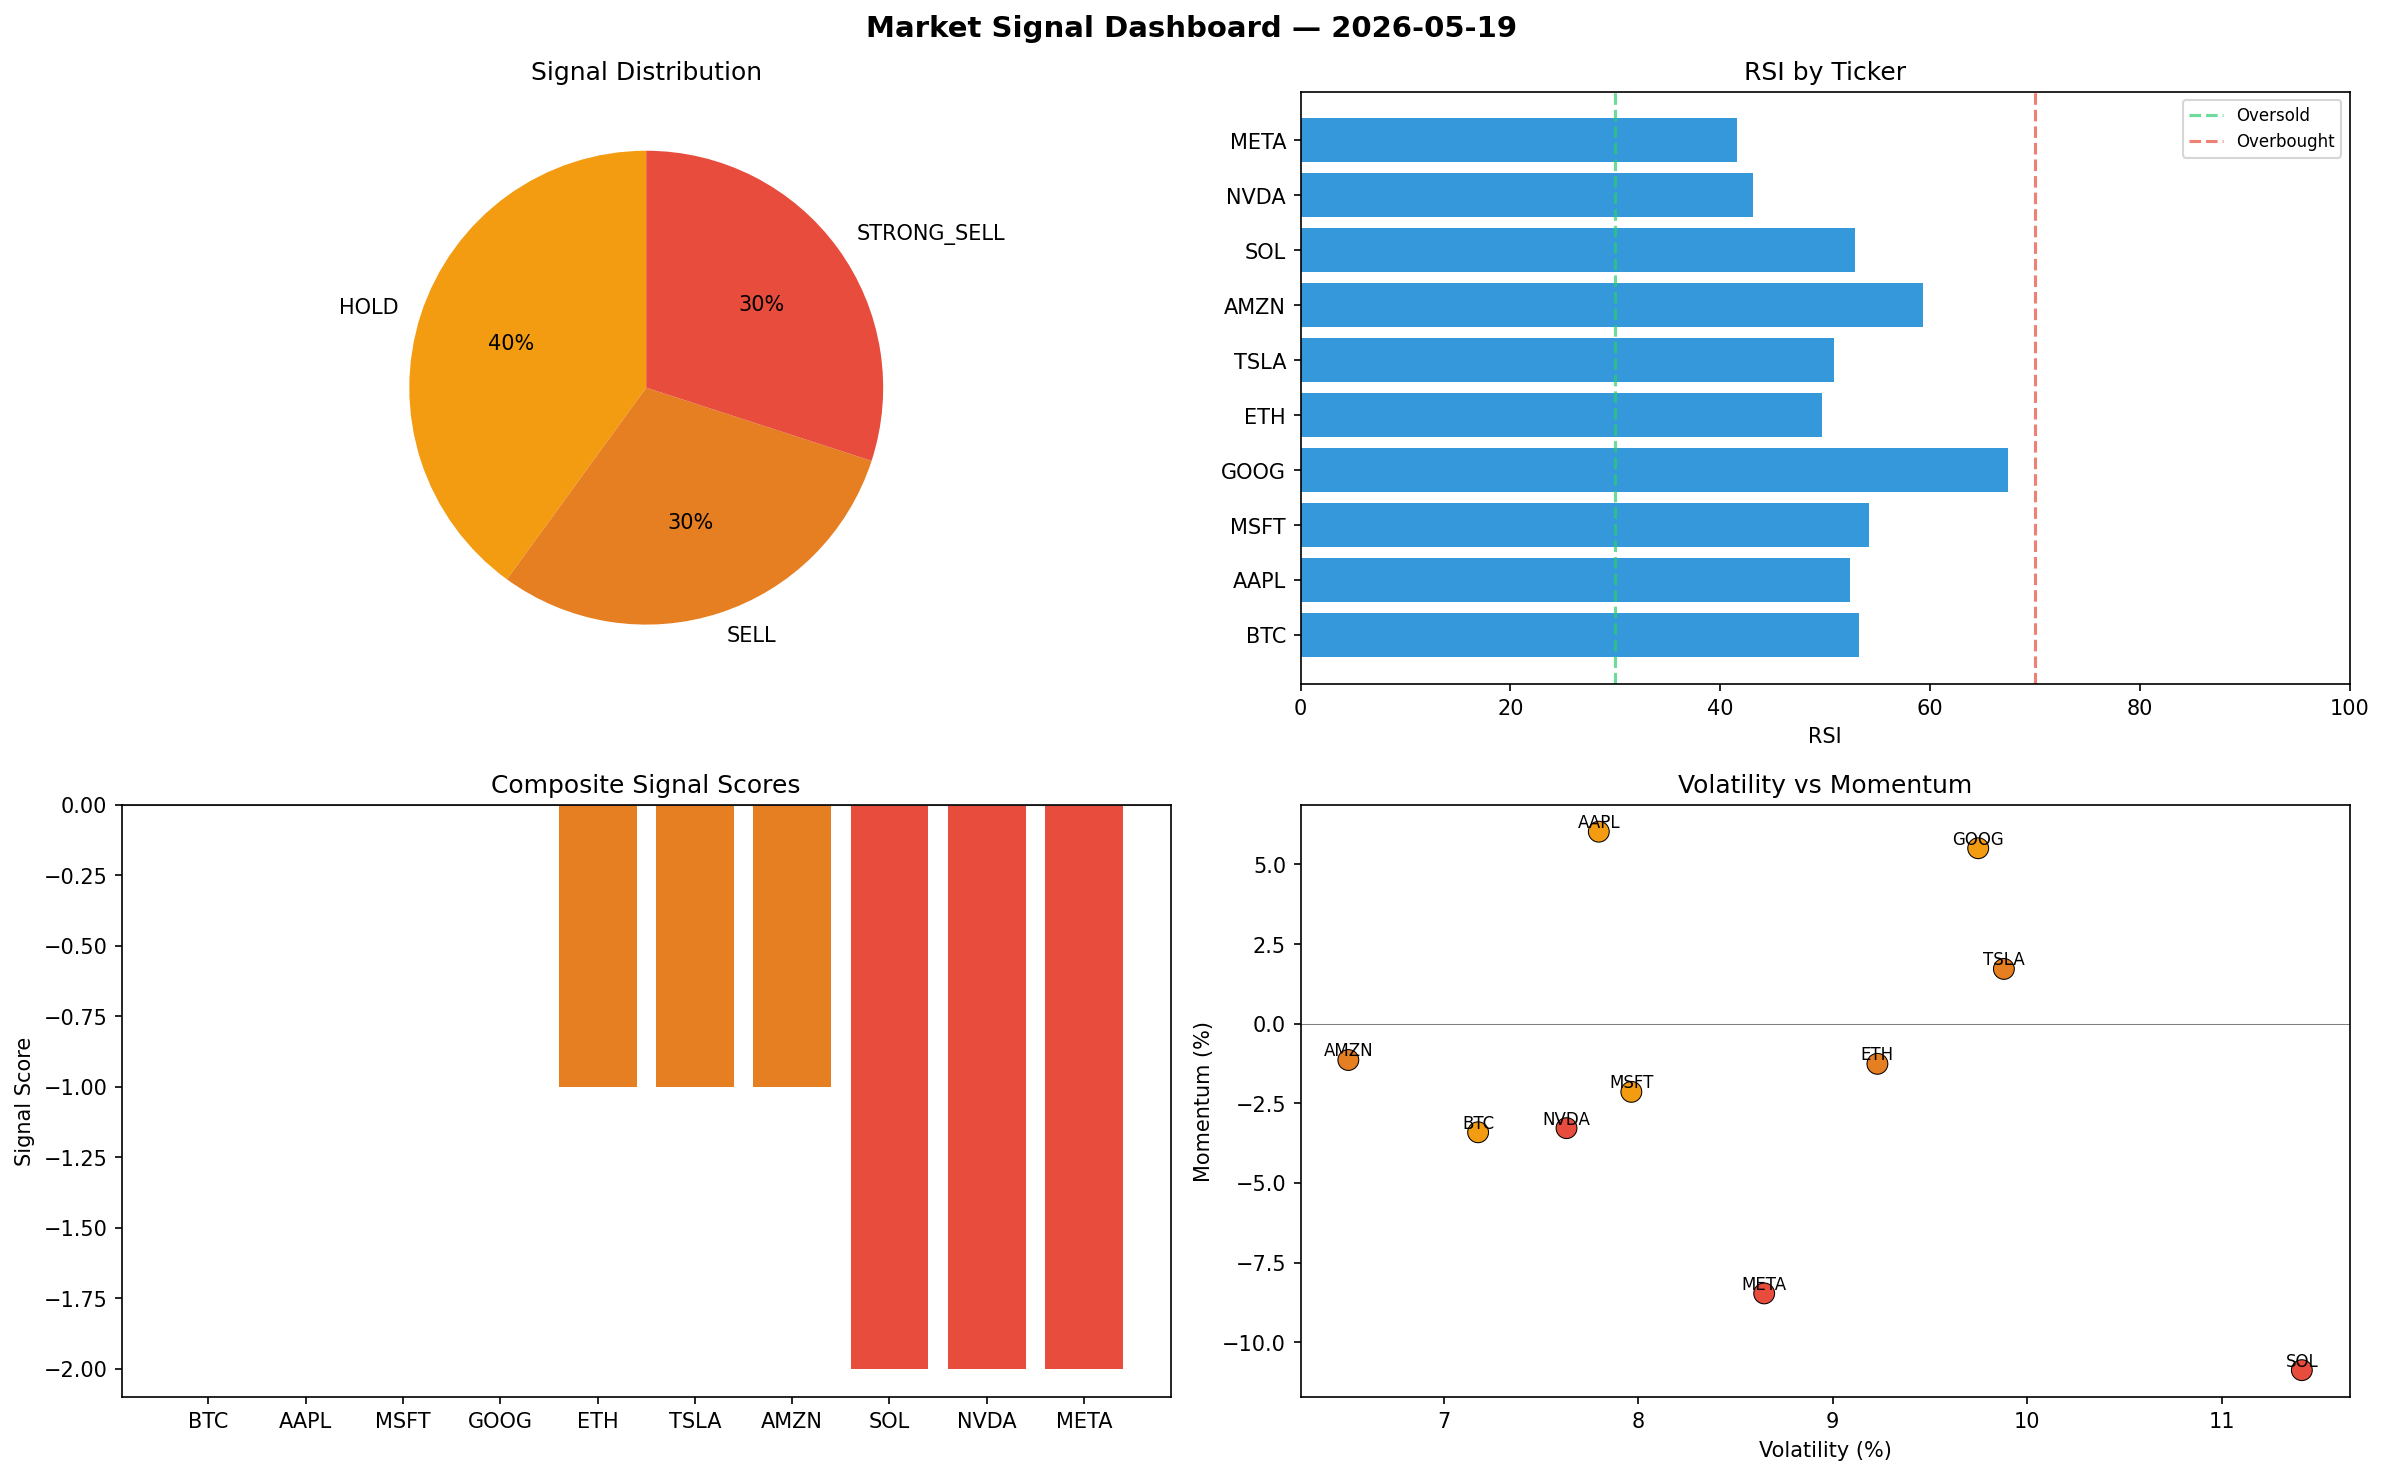
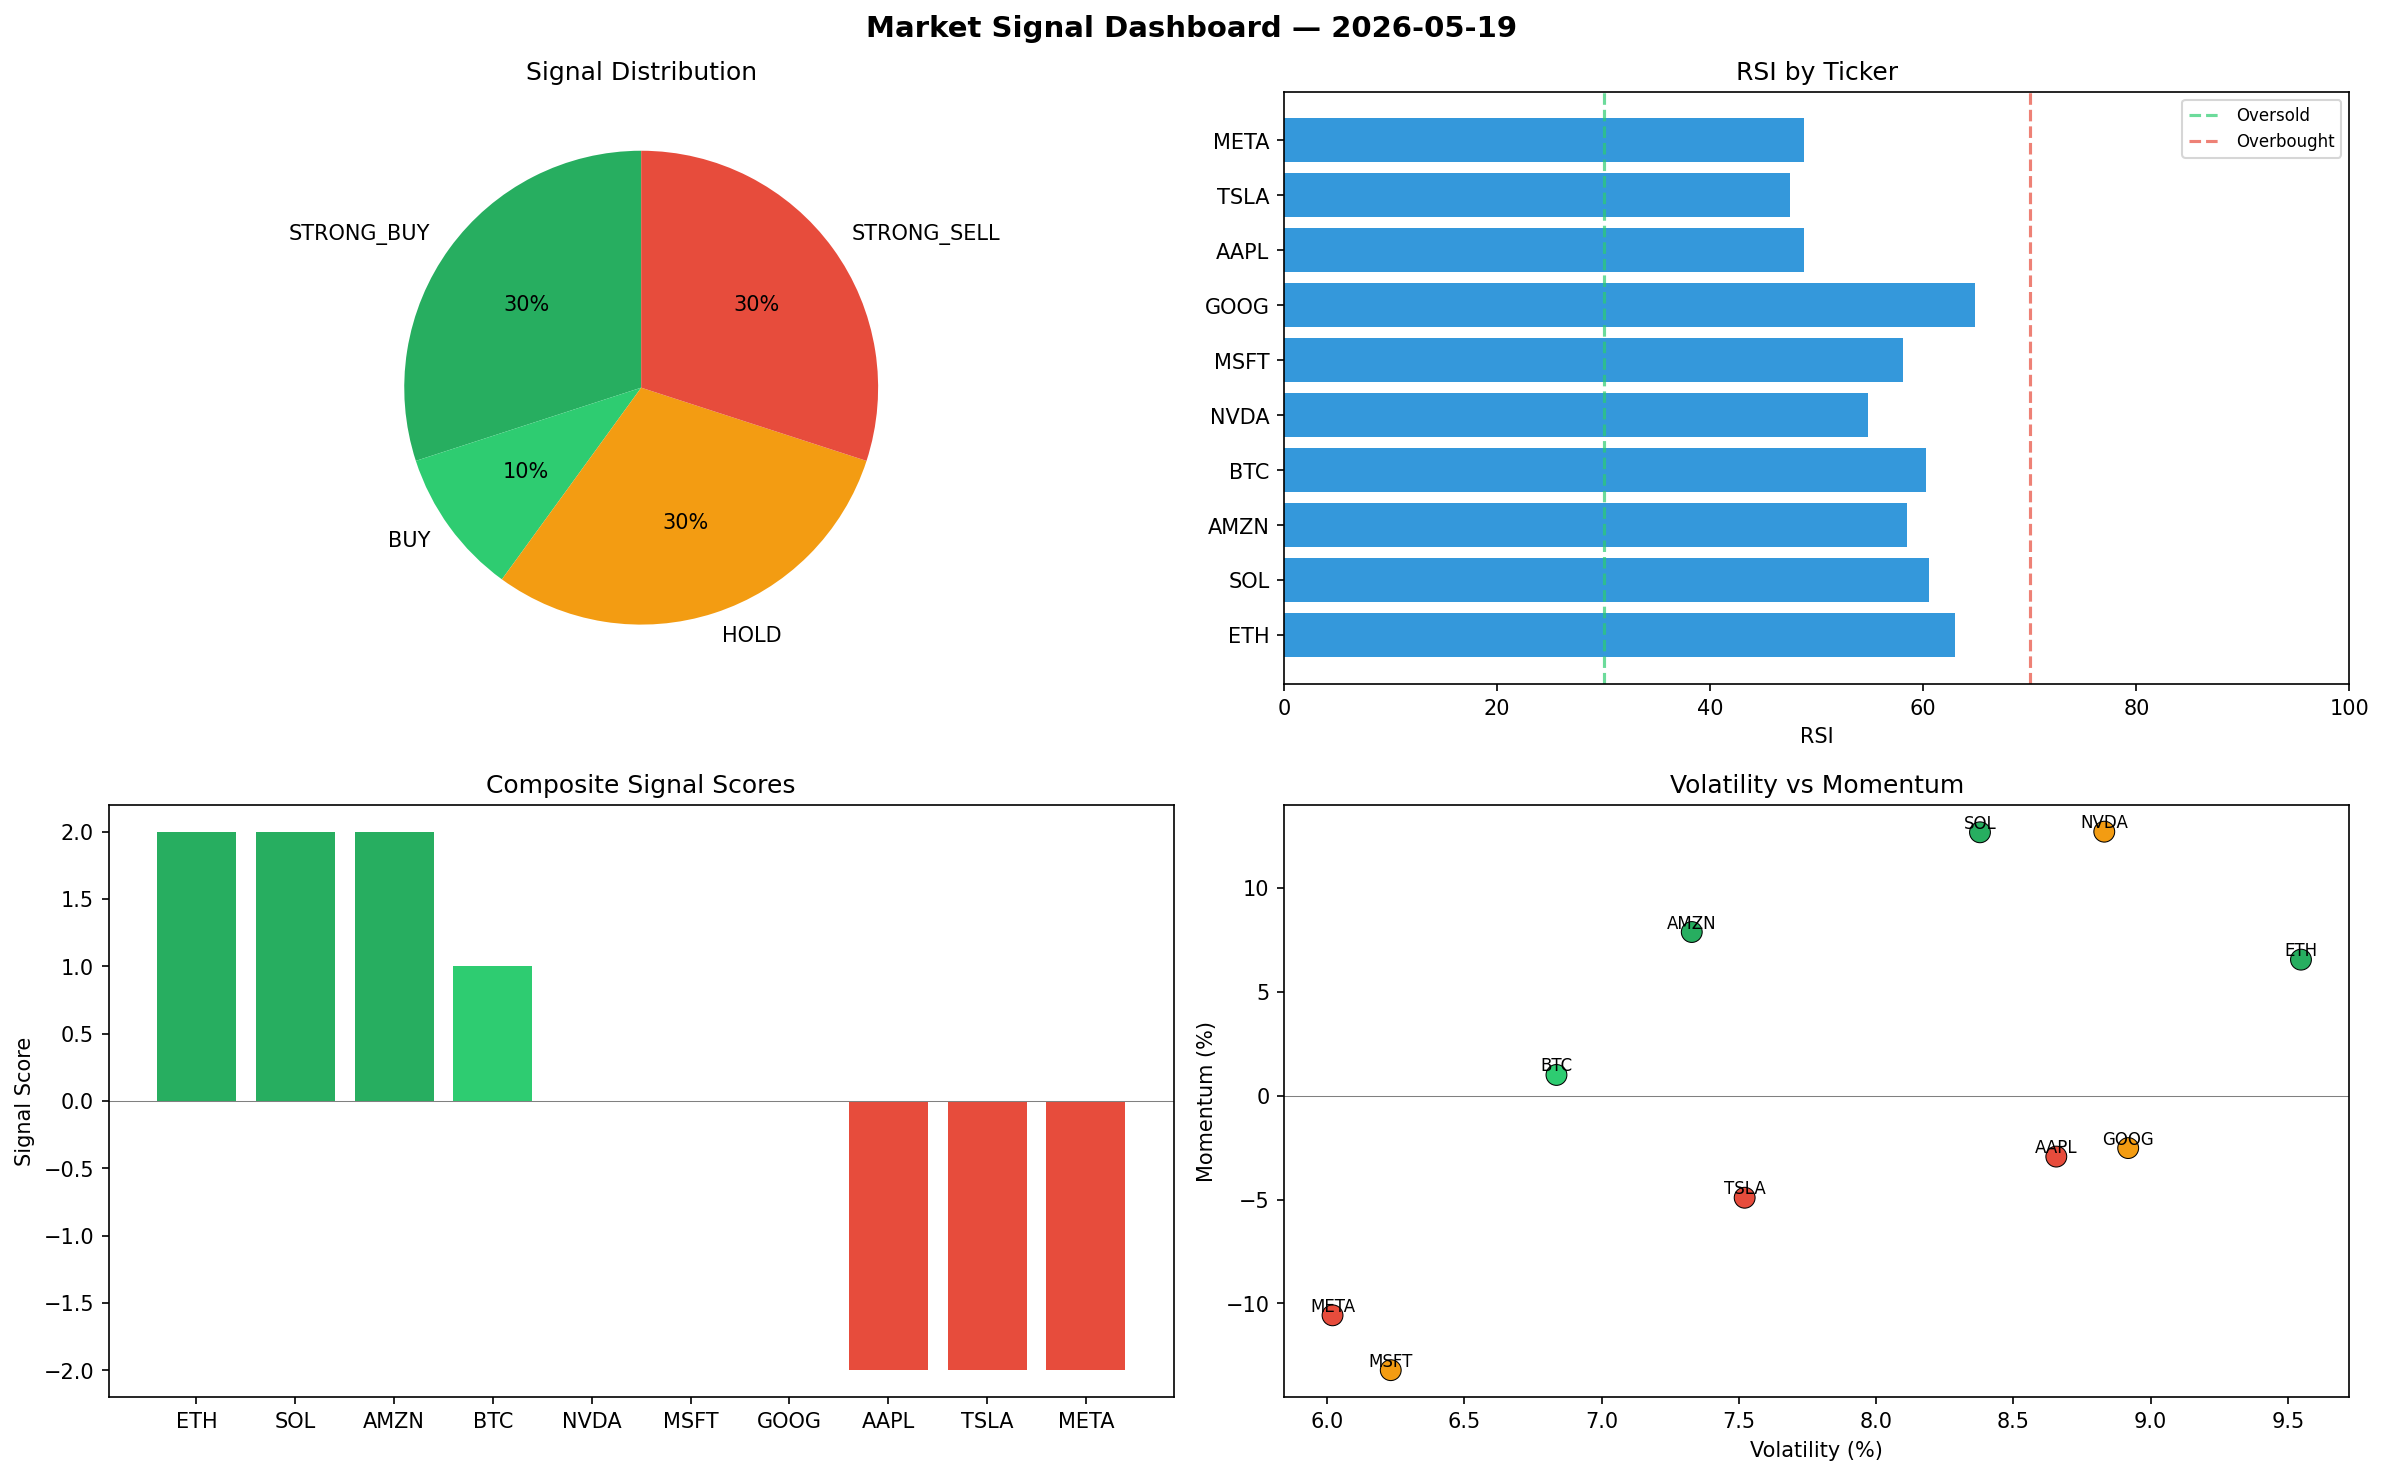
automated-bots: market signals 2026-05-19T21:51

diff --git a/logs/2026-05-19.md b/logs/2026-05-19.md
@@ -1,6 +1,6 @@
 # Market Signal Report — 2026-05-19
 
-**Run ID:** `1b78e0c5a7` | **Buy:** 0 | **Sell:** 6 | **Hold:** 4
+**Run ID:** `589bcdcc21` | **Buy:** 4 | **Sell:** 3 | **Hold:** 3
 
 ![Dashboard](2026-05-19_dashboard.png)
 
@@ -8,28 +8,28 @@
 
 | Ticker | Price | Signal | Score | RSI | Momentum | Confidence |
 |--------|-------|--------|-------|-----|----------|------------|
-| BTC | $1870.62 | **HOLD** | 0 | 53.27 | -0.0341 | 0.0 |
-| AAPL | $1577.49 | **HOLD** | 0 | 52.39 | 0.0603 | 0.0 |
-| MSFT | $3811.58 | **HOLD** | 0 | 54.16 | -0.0214 | 0.0 |
-| GOOG | $929.55 | **HOLD** | 0 | 67.43 | 0.0551 | 0.0 |
-| ETH | $551.92 | **SELL** | -1 | 49.71 | -0.0126 | 0.25 |
-| TSLA | $1818.34 | **SELL** | -1 | 50.83 | 0.0172 | 0.25 |
-| AMZN | $2095.82 | **SELL** | -1 | 59.3 | -0.0114 | 0.25 |
-| SOL | $915.22 | **STRONG_SELL** | -2 | 52.87 | -0.1088 | 0.5 |
-| NVDA | $2202.17 | **STRONG_SELL** | -2 | 43.13 | -0.0328 | 0.5 |
-| META | $4075.72 | **STRONG_SELL** | -2 | 41.57 | -0.0847 | 0.5 |
+| ETH | $1494.83 | **STRONG_BUY** | 2 | 62.94 | 0.0655 | 0.5 |
+| SOL | $924.48 | **STRONG_BUY** | 2 | 60.54 | 0.1268 | 0.5 |
+| AMZN | $2162.02 | **STRONG_BUY** | 2 | 58.5 | 0.0788 | 0.5 |
+| BTC | $2002.94 | **BUY** | 1 | 60.27 | 0.01 | 0.25 |
+| NVDA | $2071.4 | **HOLD** | 0 | 54.77 | 0.1271 | 0.0 |
+| MSFT | $2649.57 | **HOLD** | 0 | 58.13 | -0.1321 | 0.0 |
+| GOOG | $3720.86 | **HOLD** | 0 | 64.88 | -0.0252 | 0.0 |
+| AAPL | $2664.39 | **STRONG_SELL** | -2 | 48.79 | -0.0293 | 0.5 |
+| TSLA | $2736.97 | **STRONG_SELL** | -2 | 47.52 | -0.0491 | 0.5 |
+| META | $821.28 | **STRONG_SELL** | -2 | 48.82 | -0.1057 | 0.5 |
 
 ## Delta vs Yesterday
 
 | Ticker | Today | Yesterday | Price Change | Signal Changed |
 |--------|-------|-----------|-------------|----------------|
-| BTC | HOLD | HOLD | 📈 727.78% | — |
-| AAPL | HOLD | HOLD | 📈 111.72% | — |
-| MSFT | HOLD | STRONG_BUY | 📉 -7.62% | ⚠ YES |
-| GOOG | HOLD | STRONG_SELL | 📉 -46.88% | ⚠ YES |
-| ETH | SELL | BUY | 📉 -85.28% | ⚠ YES |
-| TSLA | SELL | HOLD | 📉 -58.22% | ⚠ YES |
-| AMZN | SELL | STRONG_SELL | 📉 -35.5% | ⚠ YES |
-| SOL | STRONG_SELL | BUY | 📉 -78.09% | ⚠ YES |
-| NVDA | STRONG_SELL | STRONG_BUY | 📈 24.16% | ⚠ YES |
-| META | STRONG_SELL | HOLD | 📈 9.49% | ⚠ YES |
+| ETH | STRONG_BUY | BUY | 📉 -60.13% | ⚠ YES |
+| SOL | STRONG_BUY | BUY | 📉 -77.86% | ⚠ YES |
+| AMZN | STRONG_BUY | STRONG_SELL | 📉 -33.46% | ⚠ YES |
+| BTC | BUY | HOLD | 📈 786.34% | ⚠ YES |
+| NVDA | HOLD | STRONG_BUY | 📈 16.79% | ⚠ YES |
+| MSFT | HOLD | STRONG_BUY | 📉 -35.78% | ⚠ YES |
+| GOOG | HOLD | STRONG_SELL | 📈 112.63% | ⚠ YES |
+| AAPL | STRONG_SELL | HOLD | 📈 257.6% | ⚠ YES |
+| TSLA | STRONG_SELL | HOLD | 📉 -37.11% | ⚠ YES |
+| META | STRONG_SELL | HOLD | 📉 -77.94% | ⚠ YES |
